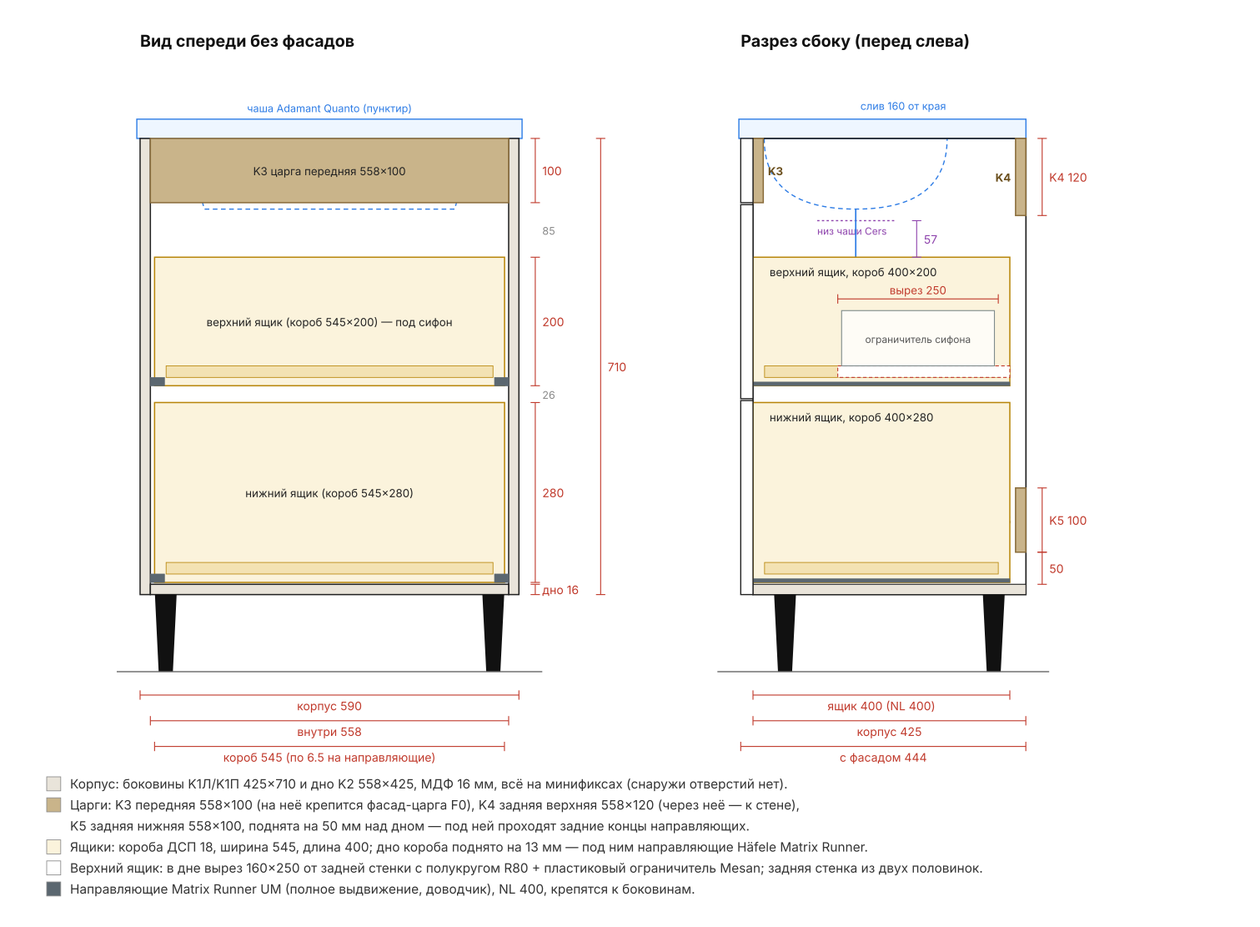
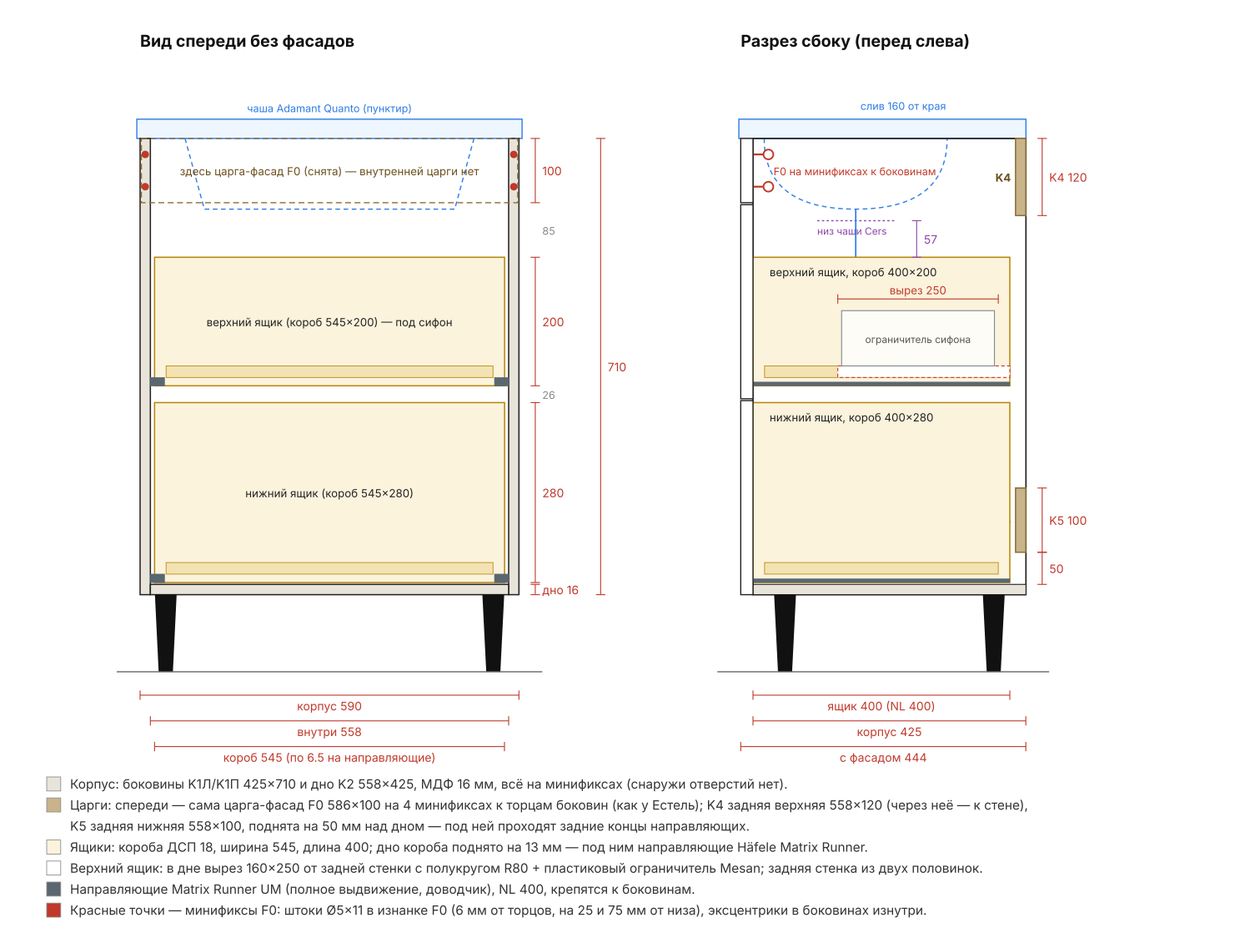
Модель 1 как Естель: внутренней царги K3 нет, царга-фасад F0 несущая — 4 минификса к боковинам (штоки в изнанке F0); генератор: опция f0_structural, тест стыков с F0; чертёж внутри обновлён
Claude-Session: https://claude.ai/code/session_01SKsW9NAaUaCHRJukYAe96U

diff --git a/generator/model.py b/generator/model.py
@@ -75,6 +75,7 @@ def build(c):
     f0 = c["facade_t"] if c.get("facade_inset") else 0   # вкладные фасады: дно и царга K3 отступают на толщину фасада
     Db = D - f0                                # глубина дна
     bottom_conf = [f0 + 50, f0 + Db / 2, D - 50]   # по глубине боковины, от её переднего торца
+    f0s = bool(c.get("f0_structural") and c.get("facade_panel_h"))   # царга-фасад F0 сама связывает боковины (как у Mirater «Естель»), K3 нет
     rail_f = c["front_rail_h"]
     rail_f_y0 = H - rail_f                     # низ передней верхней царги
     front_rail_conf = [20, rail_f - 20]
@@ -92,12 +93,17 @@ def build(c):
     rear_x = D - half                          # ось задних царг на боковине
     rail_bottom_x = [100, iw / 2, iw - 100]    # конфирматы дно -> задняя нижняя царга
 
+    ph0 = c.get("facade_panel_h", 0)
+    f0_y0 = H - c["facade_top_gap"] - ph0                 # низ царги-фасада F0
+    f0_conf = [25, ph0 - 25]
     side_holes = (
         [face(z, half) for z in bottom_conf]
-        + [face(f0 + half, rail_f_y0 + y) for y in front_rail_conf]
+        + ([] if f0s else [face(f0 + half, rail_f_y0 + y) for y in front_rail_conf])
         + [face(rear_x, rt_y0 + y) for y in rt_conf]
         + [face(rear_x, t + rb_lift + y) for y in rb_conf]
     )
+    if f0s:   # стык с F0: торец боковины (передний, x=0) -> пласть F0 (шток в F0)
+        side_holes = side_holes + [edge("left", f0_y0 + y) for y in f0_conf]
     if c.get("one_sided"):
         # односторонний материал: лицевая сторона наружу, поэтому боковины зеркальные
         mirrored = [Hole(h.side, D - h.x, h.y, h.d, h.depth) for h in side_holes]
@@ -120,11 +126,12 @@ def build(c):
                       + (f" Отступает от переднего края боковин на {f0} мм (за фасадом)." if f0 else "")
                       + (" Лицом (декор) вниз." if c.get("one_sided") and bm == "corpus" else ""), bm))
 
-    parts.append(Part("K3", "Царга передняя верхняя", "Корпус", iw, rail_f, t, 1, dict(ce),
-                      [edge("left", y) for y in front_rail_conf]
-                      + [edge("right", y) for y in front_rail_conf],
-                      ("Стоит на ребре" + (f" с отступом {f0} мм от переднего края боковин (за вкладным фасадом)" if f0 else " заподлицо с передним краем")
-                       + ", верхний торец - под умывальником. Закрыта фасадом."), "corpus"))
+    if not f0s:
+        parts.append(Part("K3", "Царга передняя верхняя", "Корпус", iw, rail_f, t, 1, dict(ce),
+                        [edge("left", y) for y in front_rail_conf]
+                        + [edge("right", y) for y in front_rail_conf],
+                        ("Стоит на ребре" + (f" с отступом {f0} мм от переднего края боковин (за вкладным фасадом)" if f0 else " заподлицо с передним краем")
+                         + ", верхний торец - под умывальником. Закрыта фасадом."), "corpus"))
 
     parts.append(Part("K4", "Царга задняя верхняя", "Корпус", iw, rt_h, t, 1, dict(ce),
                       [edge("left", y) for y in rt_conf] + [edge("right", y) for y in rt_conf],
@@ -233,6 +240,12 @@ def build(c):
             parts.append(Part(f["code"], f["name"], "Фасады", f["w"], f["h"], c["facade_t"], 1,
                               dict(ce), [], "Лицом (декор) наружу. Текстура вдоль длины.", "corpus"))
 
+    if f0s:
+        # F0 из ViyarFronts в файл порезки не идёт; деталь нужна только чтобы разметить стыки (шток Ø5 в изнанке F0)
+        fx0 = (t if inset else 0) + c["facade_side_gap"]
+        parts.append(Part("F0", "Царга-фасад", "Фасады", fw, ph, c["facade_t"], 1, {},
+                          [face(c["t"] / 2 - fx0, y) for y in f0_conf] + [face(W - c["t"] / 2 - fx0, y) for y in f0_conf],
+                          "", "facade"))
     geometry = {
         "inner_width": iw, "drawer_inner_width": wi, "drawer_outer_width": wi + 2 * t,
         "u_from": zf, "wing_w": wing_w, "u_width": uw, "facade_w": fw, "facade_h": fh, "front_offset": f0,
@@ -240,8 +253,18 @@ def build(c):
         "top_drawer_box_bottom": c["facade_bottom_gap"] + fh_bot + c["facade_mid_gap"] + c.get("top_box_lift", 20),
         "bottom_drawer_box_bottom": c["t"] + 3,
     }
+    if f0s:
+        geometry["f0_structural_pre"] = (fx0, f0_y0)
     if c.get("joint", "minifix") == "minifix":
         from . import joints
         fixed = {p.code for p in parts if p.material == "corpus"} if c.get("one_sided") else set()
         parts, geometry["units"] = joints.apply_minifix(c, parts, geometry, fixed)
+    if f0s:
+        f0p = next(p for p in parts if p.code == "F0")
+        parts = [p for p in parts if p.code != "F0"]
+        for f in facades:
+            if f["code"] == "F0":
+                f["name"] = "Царга-фасад (неподвижная, на минификсах к боковинам)"
+                f["holes"] = f0p.holes
+    geometry["f0_structural"] = f0s
     return parts, facades, geometry

diff --git a/generator/outputs.py b/generator/outputs.py
@@ -101,6 +101,12 @@ def spec_md(c, parts, facades, geo, bands):
     a("|---|---|---|---|")
     for f in facades:
         a(f"| {f['code']} | {f['name']} | {_n(f['w'])} × {_n(f['h'])} | 1 |")
+    for f in facades:
+        if f.get("holes"):
+            pts = ", ".join(f"({_n(h.x)}; {_n(h.y)})" for h in f["holes"])
+            a(f"\n**{f['code']} — присадка в изнанке** (под штоки минификсов к боковинам): {len(f['holes'])} отв. "
+              f"Ø{_n(f['holes'][0].d)} × {_n(f['holes'][0].depth)} мм, координаты от левого нижнего угла, если смотреть на ЛИЦО фасада: {pts}. "
+              "Заказать присадку в ViyarFronts вместе с фасадом или сверлить по шаблону на месте (глубина строго 11 — фасад 19 мм).")
     a(f"\nЗазоры: по {c['facade_side_gap']} мм с боков, {c['facade_mid_gap']} мм между фасадами, "
       f"{c['facade_top_gap']} мм сверху, {c['facade_bottom_gap']} мм снизу.\n")
 
@@ -117,7 +123,7 @@ def spec_md(c, parts, facades, geo, bands):
         a(f"| Конфирмат 7×50 + заглушки в цвет | — | {confirmats} + 10 запас |")
     a("| Саморез 4×16 (направляющие к боковинам) | — | ~24 |")
     a("| Саморез 4×25 (фасад к ящику изнутри) | — | 8 |")
-    if any(f["code"] == "F0" for f in facades):
+    if any(f["code"] == "F0" and not geo.get("f0_structural") for f in facades):
         a("| Саморез 4×30 (фальш-панель F0 к царге K3 изнутри) | — | 4–6 |")
     if c.get("handles", "Ручки (выбрать под фасад)"):
         a(f"| {c.get('handles', 'Ручки (выбрать под фасад)')} | — | 2 |")
@@ -157,7 +163,8 @@ def spec_md(c, parts, facades, geo, bands):
     a("## Сборка\n")
     a(c.get("assembly_step0", "0. Детали корпуса красятся до сборки."))
     jn = "минификсах" if c.get("joint", "minifix") == "minifix" else "конфирматах"
-    a(f"1. Корпус: боковины K1Л и K1П + дно K2 + задняя нижняя царга K5 + передняя царга K3 + задняя верхняя царга K4 на {jn}. "
+    k3 = "царга-фасад F0 (вместо внутренней передней царги)" if geo.get("f0_structural") else "передняя царга K3"
+    a(f"1. Корпус: боковины K1Л и K1П + дно K2 + задняя нижняя царга K5 + {k3} + задняя верхняя царга K4 на {jn}. "
       "Штоки вкрутить в боковины (и в дно, если K5 стоит на дне), детали надеть торцами на штоки, затянуть эксцентрики."
       if jn == "минификсах" else f"1. Корпус: боковины K1 + дно K2 + задняя нижняя царга K5 + передняя царга K3 + задняя верхняя царга K4 на {jn}.")
     if c.get("facade_inset"):
@@ -169,7 +176,10 @@ def spec_md(c, parts, facades, geo, bands):
     a("4. Верхний ящик (на минификсах): боковины V1, передняя V2, половинки задней стенки V3Л и V3П, дно V4 с вырезом. "
       "В вырез дна вставить пластиковый ограничитель сифона (Mesan 228527) и закрепить по инструкции.")
     a("5. Отверстия под задние крючки направляющих в задних стенках — по шаблону из инструкции направляющих.")
-    if any(f["code"] == "F0" for f in facades):
+    if geo.get("f0_structural"):
+        a("6. Царга-фасад F0 уже стоит в корпусе (шаг 1): штоки в изнанке F0, эксцентрики в боковинах изнутри; вровень с верхом корпуса, под умывальник. "
+          "Фасады ящиков — к передним стенкам ящиков изнутри саморезами 4×25, отрегулировать 3D-регулировкой направляющих.")
+    elif any(f["code"] == "F0" for f in facades):
         a(f"6. Фальш-панель F0 — к царге K3 изнутри саморезами 4×30 ("
           + (f"зазор {c['facade_top_gap']:g} мм до умывальника" if c['facade_top_gap'] else "вровень с верхом корпуса, под умывальник")
           + ", по краям вровень с фасадами ящиков). "
@@ -220,7 +230,8 @@ def drawing_svg(c, parts, facades, geo):
     a(f'<rect x="{sx}" y="{oy}" width="{D*s}" height="{H*s}" fill="none" stroke="#333"/>')
     f0 = geo.get("front_offset", 0)
     a(f'<rect x="{sx + f0*s}" y="{oy + (H - t)*s}" width="{(D - f0)*s}" height="{t*s}" fill="#ccc"/>')
-    a(f'<rect x="{sx + f0*s}" y="{oy}" width="{t*s}" height="{c["front_rail_h"]*s}" fill="#ccc"/>')
+    if not geo.get("f0_structural"):
+        a(f'<rect x="{sx + f0*s}" y="{oy}" width="{t*s}" height="{c["front_rail_h"]*s}" fill="#ccc"/>')
     a(f'<rect x="{sx + (D - t)*s}" y="{oy}" width="{t*s}" height="{c["rear_top_rail_h"]*s}" fill="#ccc"/>')
     a(f'<rect x="{sx + (D - t)*s}" y="{oy + (H - t - c["rear_bottom_rail_h"])*s}" width="{t*s}" height="{c["rear_bottom_rail_h"]*s}" fill="#ccc"/>')
     for yb, hb in ((geo["bottom_drawer_box_bottom"], c["drawer_bottom_box_h"]),

diff --git a/modeli/m1/vnutri.py b/modeli/m1/vnutri.py
@@ -69,9 +69,16 @@ text(FX(W/2), Y(LEG + H + SINK_T) - 6, f"чаша {sink['brand']} {sink['series'
 rect(FX(0), LEG, t * k, H, C_CORP)
 rect(FX(W - t), LEG, t * k, H, C_CORP)
 rect(FX(t), LEG, iw * k, t, C_CORP)
-# передняя царга K3 (видна целиком: стоит на ребре у переднего края)
-rect(FX(t), LEG + H - rf, iw * k, rf, C_RAIL, "#8a6d3b")
-text(FX(W / 2), Y(LEG + H - rf / 2) + 4, f"K3 царга передняя {iw}×{rf}", 9.5)
+F0S = g.get("f0_structural")
+F0 = next(f for f in facades if f["code"] == "F0")
+if F0S:   # внутренней K3 нет: спереди вверху связь — сама царга-фасад F0 (снята на этом виде)
+    rect(FX(F0["x"]), LEG + F0["top"] - F0["h"], F0["w"] * k, F0["h"], "none", "#8a6d3b", 1, 'stroke-dasharray="5 3"')
+    text(FX(W / 2), Y(LEG + H - rf / 2) + 4, "здесь царга-фасад F0 (снята) — внутренней царги нет", 9.5, col="#6b4f1d")
+    for h in F0["holes"]:   # минификсы F0 -> боковины
+        a(f'<circle cx="{FX(F0["x"] + h.x):.1f}" cy="{Y(LEG + F0["top"] - F0["h"] + h.y):.1f}" r="3.2" fill="#c0392b"/>')
+else:
+    rect(FX(t), LEG + H - rf, iw * k, rf, C_RAIL, "#8a6d3b")
+    text(FX(W / 2), Y(LEG + H - rf / 2) + 4, f"K3 царга передняя {iw}×{rf}", 9.5)
 # ящики
 for (y0, h, lab) in ((yb_bot, hb_bot, f"нижний ящик (короб {bw}×{hb_bot})"), (yb_top, hb_top, f"верхний ящик (короб {bw}×{hb_top}) — под сифон")):
     xl = FX((W - bw) / 2)
@@ -119,10 +126,18 @@ text(SZ(drain) + 4, Y(LEG + H + SINK_T) - 8, f"слив {drain} от края", 
 # боковина (контур), дно, царги
 rect(SZ(0), LEG, D * k, H, "none", "#222", 1.2)
 rect(SZ(0), LEG, D * k, t, C_CORP, "#222", 0.8)                                   # дно K2
-rect(SZ(0), LEG + H - rf, t * k, rf, C_RAIL, "#8a6d3b")                           # K3
+if not F0S:
+    rect(SZ(0), LEG + H - rf, t * k, rf, C_RAIL, "#8a6d3b")                       # K3
 rect(SZ(D - t), LEG + H - rt, t * k, rt, C_RAIL, "#8a6d3b")                       # K4
 rect(SZ(D - t), LEG + t + rbl, t * k, rb, C_RAIL, "#8a6d3b")                      # K5
-text(SZ(t) + 4, Y(LEG + H - rf / 2) + 4, "K3", 9.5, "start", "#6b4f1d", "bold")
+if F0S:
+    for h in F0["holes"][:2]:   # минификс: шток в F0, эксцентрик в боковине на 24 мм от торца
+        yy = Y(LEG + F0["top"] - F0["h"] + h.y)
+        line(S0 + FT * k / 2, yy, SZ(24), yy, "#c0392b", 1.6)
+        a(f'<circle cx="{SZ(24):.1f}" cy="{yy:.1f}" r="4.2" fill="#fff" stroke="#c0392b" stroke-width="1.4"/>')
+    text(SZ(32), Y(LEG + H - 50) + 4, "F0 на минификсах к боковинам", 9, "start", "#c0392b")
+else:
+    text(SZ(t) + 4, Y(LEG + H - rf / 2) + 4, "K3", 9.5, "start", "#6b4f1d", "bold")
 text(SZ(D - t) - 4, Y(LEG + H - rt / 2) + 4, "K4", 9.5, "end", "#6b4f1d", "bold")
 text(SZ(D - t) - 4, Y(LEG + t + rbl + rb / 2) + 4, "K5", 9.5, "end", "#6b4f1d", "bold")
 # ящики
@@ -163,11 +178,13 @@ text((SZ(zc0) + SZ(L - tb)) / 2, yy - 4, f"вырез {cut_len}", 9.5, "middle",
 # ===================================================================== легенда
 notes = [
     ("#e9e4da", f"Корпус: боковины K1Л/K1П {D}×{H} и дно K2 {iw}×{D}, МДФ 16 мм, всё на минификсах (снаружи отверстий нет)."),
-    ("#c9b48a", f"Царги: K3 передняя {iw}×{rf} (на неё крепится фасад-царга F0), K4 задняя верхняя {iw}×{rt} (через неё — к стене),"),
+    ("#c9b48a", (f"Царги: спереди — сама царга-фасад F0 586×100 на 4 минификсах к торцам боковин (как у Естель); K4 задняя верхняя {iw}×{rt} (через неё — к стене),"
+                 if g.get("f0_structural") else f"Царги: K3 передняя {iw}×{rf} (на неё крепится фасад-царга F0), K4 задняя верхняя {iw}×{rt} (через неё — к стене),")),
     (None, f"K5 задняя нижняя {iw}×{rb}, поднята на {rbl} мм над дном — под ней проходят задние концы направляющих."),
     ("#fbf3dc", f"Ящики: короба ДСП 18, ширина {bw}, длина {L}; дно короба поднято на {rec} мм — под ним направляющие Häfele Matrix Runner."),
     ("#ffffff", f"Верхний ящик: в дне вырез {g['u_width']}×{cut_len} от задней стенки с полукругом R80 + пластиковый ограничитель Mesan; задняя стенка из двух половинок."),
     (C_RUN, "Направляющие Matrix Runner UM (полное выдвижение, доводчик), NL 400, крепятся к боковинам."),
+    ("#c0392b", "Красные точки — минификсы F0: штоки Ø5×11 в изнанке F0 (6 мм от торцов, на 25 и 75 мм от низа), эксцентрики в боковинах изнутри."),
 ]
 ny = Y(0) + 100
 for i, (col, n) in enumerate(notes):

diff --git a/tests/test_assembly.py b/tests/test_assembly.py
@@ -29,6 +29,9 @@ def test_minifix_assembly(prod):
     c = _cfg(prod)
     parts, facades, geo = model.build(c)
     by_code = {p.code: p for p in parts}
+    if geo.get("f0_structural"):   # несущая царга-фасад F0 не в файле порезки, но стыкуется с боковинами
+        f0 = next(f for f in facades if f["code"] == "F0")
+        by_code["F0"] = model.Part("F0", f0["name"], "Фасады", f0["w"], f0["h"], c["facade_t"], 1, {}, f0["holes"])
     problems = []
     for uname, unit in geo["units"].items():
         center = _box_center(by_code, unit)
@@ -103,11 +106,19 @@ def test_fits_sink_and_runners(prod):
     half = r if zd >= zc else math.sqrt(max(r * r - (zc - zd) ** 2, 0))
     assert half >= 30, f"слив у самого края выреза под сифон: полуширина {half:.0f} мм"
     # верхний ящик проходит под передней царгой (она стоит на ребре у фасада)
-    assert top_box_top + 5 <= c["height"] - c["front_rail_h"], "короб верхнего ящика упирается в переднюю царгу"
+    if not geo.get("f0_structural"):
+        assert top_box_top + 5 <= c["height"] - c["front_rail_h"], "короб верхнего ящика упирается в переднюю царгу"
     # фальш-панель держится на царге K3 (перекрытие по высоте не меньше 40 мм)
     for f in facades:
-        if f["code"] == "F0":
+        if f["code"] == "F0" and not geo.get("f0_structural"):
             assert min(f["top"], c["height"]) - max(f["top"] - f["h"], c["height"] - c["front_rail_h"]) >= 40
+    # царга-фасад F0 несущая: 4 штока, каждый попадает на ось боковины, короб верхнего ящика ниже F0
+    if geo.get("f0_structural"):
+        f0 = next(f for f in facades if f["code"] == "F0")
+        assert len(f0["holes"]) == 4
+        for h in f0["holes"]:
+            assert abs((f0["x"] + h.x) - min(c["t"] / 2, c["width"] - c["t"] / 2, key=lambda v: abs(v - (f0["x"] + h.x)))) < 0.01
+        assert top_box_top + 5 <= f0["top"] - f0["h"], "короб верхнего ящика упирается в царгу-фасад"
     # ограничитель сифона Mesan H=86 помещается в верхнем ящике (над дном короба)
     assert c["drawer_top_box_h"] - c["drawer_bottom_recess"] - c["t_box"] >= 86, "ограничитель сифона выше короба"
     # короб нижнего ящика не доходит до верхнего

diff --git a/modeli/m1/vizual.py b/modeli/m1/vizual.py
@@ -240,7 +240,7 @@ vdim(sb + 16, fy(860), fy(830), "30", "r", "#2c7be5")
 # пояснения
 notes = [
  "Модель 1 (T1-Q60) — по типу Mirater «Естель» 60. Корпус МДФ 16, белый; фасады МДФ 19 Урбан, белые.",
- "F0 — неподвижная царга 100 мм, крепится к царге корпуса K3 изнутри; F1, F2 — ящики, Häfele Matrix Runner.",
+ "F0 — неподвижная царга-фасад 100 мм, сама связывает боковины (4 минификса), внутренней царги нет; F1, F2 — ящики.",
  "Ручки Ferro Fiori M 0734.160 чёрный браш (ВіЯр 191333), межосевое 160, по центру, ось 60 мм от верха фасада.",
  "Ножки Ferro Fiori PL 737 h=120, чёрные (ВіЯр 218885), 4 шт., центр ~40 мм от боковин.",
  "Фасады МДФ 19, фрезеровка Урбан (ViyarFronts): пунктир — рамка ≈27 мм от торца, на всех трёх фасадах.",

diff --git a/generator/joints.py b/generator/joints.py
@@ -70,9 +70,13 @@ def placements(c, geo):
                  ("K1П", (W - t, 0, 0), Z, Y, X)]         # правая: смотрим снаружи, перед слева
     else:
         sides = [("K1", (0, 0, 0), Z, Y, X), ("K1", (W - t, 0, 0), Z, Y, X)]
-    corpus = sides + [
+    if geo.get("f0_structural_pre"):
+        fx, fy0 = geo["f0_structural_pre"]
+        front = [("F0", (fx, fy0, -c["facade_t"]), X, Y, Z)]     # царга-фасад перед корпусом
+    else:
+        front = [("K3", (t, H - c["front_rail_h"], f0), X, Y, Z)]
+    corpus = sides + front + [
         ("K2", (t, 0, f0), X, Z, Y),
-        ("K3", (t, H - c["front_rail_h"], f0), X, Y, Z),
         ("K4", (t, H - c["rear_top_rail_h"], D - t), X, Y, Z),
         ("K5", (t, t + c.get("rear_bottom_rail_lift", 0), D - t), X, Y, Z),
     ]

diff --git a/izdeliya/T1-Q60/spec.md b/izdeliya/T1-Q60/spec.md
@@ -15,11 +15,10 @@
 | K1Л | Боковина (левая) | Корпус | 425 × 710 × 16 | 1 | — | — |
 | K1П | Боковина (правая) | Корпус | 425 × 710 × 16 | 1 | — | — |
 | K2 | Дно | Корпус | 558 × 425 × 16 | 1 | — | — |
-| K3 | Царга передняя верхняя | Корпус | 558 × 100 × 16 | 1 | — | — |
 | K4 | Царга задняя верхняя | Корпус | 558 × 120 × 16 | 1 | — | — |
 | K5 | Царга задняя нижняя | Корпус | 558 × 100 × 16 | 1 | — | — |
 
-Площадь: **1.02 м²** из листа 5.80 м² — хватает одного листа.
+Площадь: **0.96 м²** из листа 5.80 м² — хватает одного листа.
 
 ### Короба ящиков — ДСП
 
@@ -43,7 +42,7 @@
 
 - Кромка ABS REHAU 77039 Білий платиновий SM 23x2 мм (ВіЯр 93204, видимые торцы): **3.5 м.п.** (без запаса)
 - Кромка ABS REHAU 77039 Білий платиновий SM 23x0,8 мм (ВіЯр 12183, остальные торцы): **11.3 м.п.** (без запаса)
-- Отверстий всего: **153**. Соединения — **минификсы: 51 шт.** Все отверстия глухие, только с внутренней стороны; снаружи изделия отверстий нет.
+- Отверстий всего: **149**. Соединения — **минификсы: 51 шт.** Все отверстия глухие, только с внутренней стороны; снаружи изделия отверстий нет.
 
 ## Фасады (МДФ, заказать отдельно)
 
@@ -52,9 +51,11 @@
 
 | Код | Фасад | Размер, мм | Шт |
 |---|---|---|---|
-| F0 | Фальш-панель (неподвижная, на царгу K3) | 586 × 100 | 1 |
+| F0 | Царга-фасад (неподвижная, на минификсах к боковинам) | 586 × 100 | 1 |
 | F1 | Фасад верхнего ящика | 586 × 302 | 1 |
 | F2 | Фасад нижнего ящика | 586 × 302 | 1 |
+
+**F0 — присадка в изнанке** (под штоки минификсов к боковинам): 4 отв. Ø5 × 11 мм, координаты от левого нижнего угла, если смотреть на ЛИЦО фасада: (6; 25), (6; 75), (580; 25), (580; 75). Заказать присадку в ViyarFronts вместе с фасадом или сверлить по шаблону на месте (глубина строго 11 — фасад 19 мм).
 
 Зазоры: по 2 мм с боков, 3 мм между фасадами, 0 мм сверху, 0 мм снизу.
 
@@ -67,7 +68,6 @@
 | Заглушки на эксцентрики в цвет (по желанию, они только внутри) | — | по месту |
 | Саморез 4×16 (направляющие к боковинам) | — | ~24 |
 | Саморез 4×25 (фасад к ящику изнутри) | — | 8 |
-| Саморез 4×30 (фальш-панель F0 к царге K3 изнутри) | — | 4–6 |
 | Ручка Ferro Fiori M 0734.160 чорний браш, міжцентрова 160 мм, накладна (ВіЯр 191333) — по центру фасаду, вісь 60 мм від верху (нижче рамки Урбан) | — | 2 |
 | Ніжка меблева Ferro Fiori PL 737, h=120 мм, max 500 кг, чорний (ВіЯр 218885) | — | 4 |
 | Крепление к стене от опрокидывания: 2 шурупа 6×60 через заднюю верхнюю царгу | — | 1 компл. |
@@ -93,10 +93,10 @@
 ## Сборка
 
 0. Детали корпуса красятся до сборки.
-1. Корпус: боковины K1Л и K1П + дно K2 + задняя нижняя царга K5 + передняя царга K3 + задняя верхняя царга K4 на минификсах. Штоки вкрутить в боковины (и в дно, если K5 стоит на дне), детали надеть торцами на штоки, затянуть эксцентрики.
+1. Корпус: боковины K1Л и K1П + дно K2 + задняя нижняя царга K5 + царга-фасад F0 (вместо внутренней передней царги) + задняя верхняя царга K4 на минификсах. Штоки вкрутить в боковины (и в дно, если K5 стоит на дне), детали надеть торцами на штоки, затянуть эксцентрики.
 2. Направляющие к боковинам саморезами 4×16, передний край — по краю корпуса, высота — по фасадам.
 3. Нижний ящик: боковины N1 + передняя N2 + задняя N3 + дно N4 (дно поднято на 13 мм), на минификсах.
 4. Верхний ящик (на минификсах): боковины V1, передняя V2, половинки задней стенки V3Л и V3П, дно V4 с вырезом. В вырез дна вставить пластиковый ограничитель сифона (Mesan 228527) и закрепить по инструкции.
 5. Отверстия под задние крючки направляющих в задних стенках — по шаблону из инструкции направляющих.
-6. Фальш-панель F0 — к царге K3 изнутри саморезами 4×30 (вровень с верхом корпуса, под умывальник, по краям вровень с фасадами ящиков). Фасады ящиков — к передним стенкам ящиков изнутри саморезами 4×25, отрегулировать 3D-регулировкой направляющих.
+6. Царга-фасад F0 уже стоит в корпусе (шаг 1): штоки в изнанке F0, эксцентрики в боковинах изнутри; вровень с верхом корпуса, под умывальник. Фасады ящиков — к передним стенкам ящиков изнутри саморезами 4×25, отрегулировать 3D-регулировкой направляющих.
 7. Вкрутить ножки в дно, выставить тумбу по уровню, закрепить к стене от опрокидывания; установить умывальник на силикон (он лежит на боковинах и царгах).

diff --git a/izdeliya/README.md b/izdeliya/README.md
@@ -14,6 +14,6 @@
 | [TL-Q80](TL-Q80/spec.md) | Тумба подвесная Line 80 под Adamant Quanto 80 | 790 × 650 × 425 | 786 × 322 (2 шт) | 17 | 2.32 м² | 153 |
 | [TL-Q90](TL-Q90/spec.md) | Тумба подвесная Line 90 под Adamant Quanto 90 | 890 × 650 × 425 | 886 × 322 (2 шт) | 17 | 2.53 м² | 153 |
 | [TL-Q100](TL-Q100/spec.md) | Тумба подвесная Line 100 под Adamant Quanto 100 | 990 × 650 × 425 | 986 × 322 (2 шт) | 17 | 2.74 м² | 153 |
-| [T1-Q60](T1-Q60/spec.md) | Тумба напольная Модель 1 60 под Adamant Quanto 60 | 590 × 710 × 425 | 586 × 100 + 586 × 302 (2 шт) | 17 | 2.24 м² | 153 |
+| [T1-Q60](T1-Q60/spec.md) | Тумба напольная Модель 1 60 под Adamant Quanto 60 | 590 × 710 × 425 | 586 × 100 + 586 × 302 (2 шт) | 16 | 2.18 м² | 149 |
 | [T2-Q60](T2-Q60/spec.md) | Тумба подвесная Модель 2 60 под Adamant Quanto 60 | 590 × 600 × 425 | 586 × 286 (2 шт) | 17 | 1.85 м² | 153 |
 | [T3-Q60](T3-Q60/spec.md) | Тумба подвесная Модель 3 60 под Adamant Quanto 60 | 590 × 600 × 422 | 586 × 297 (2 шт) | 17 | 1.87 м² | 153 |
